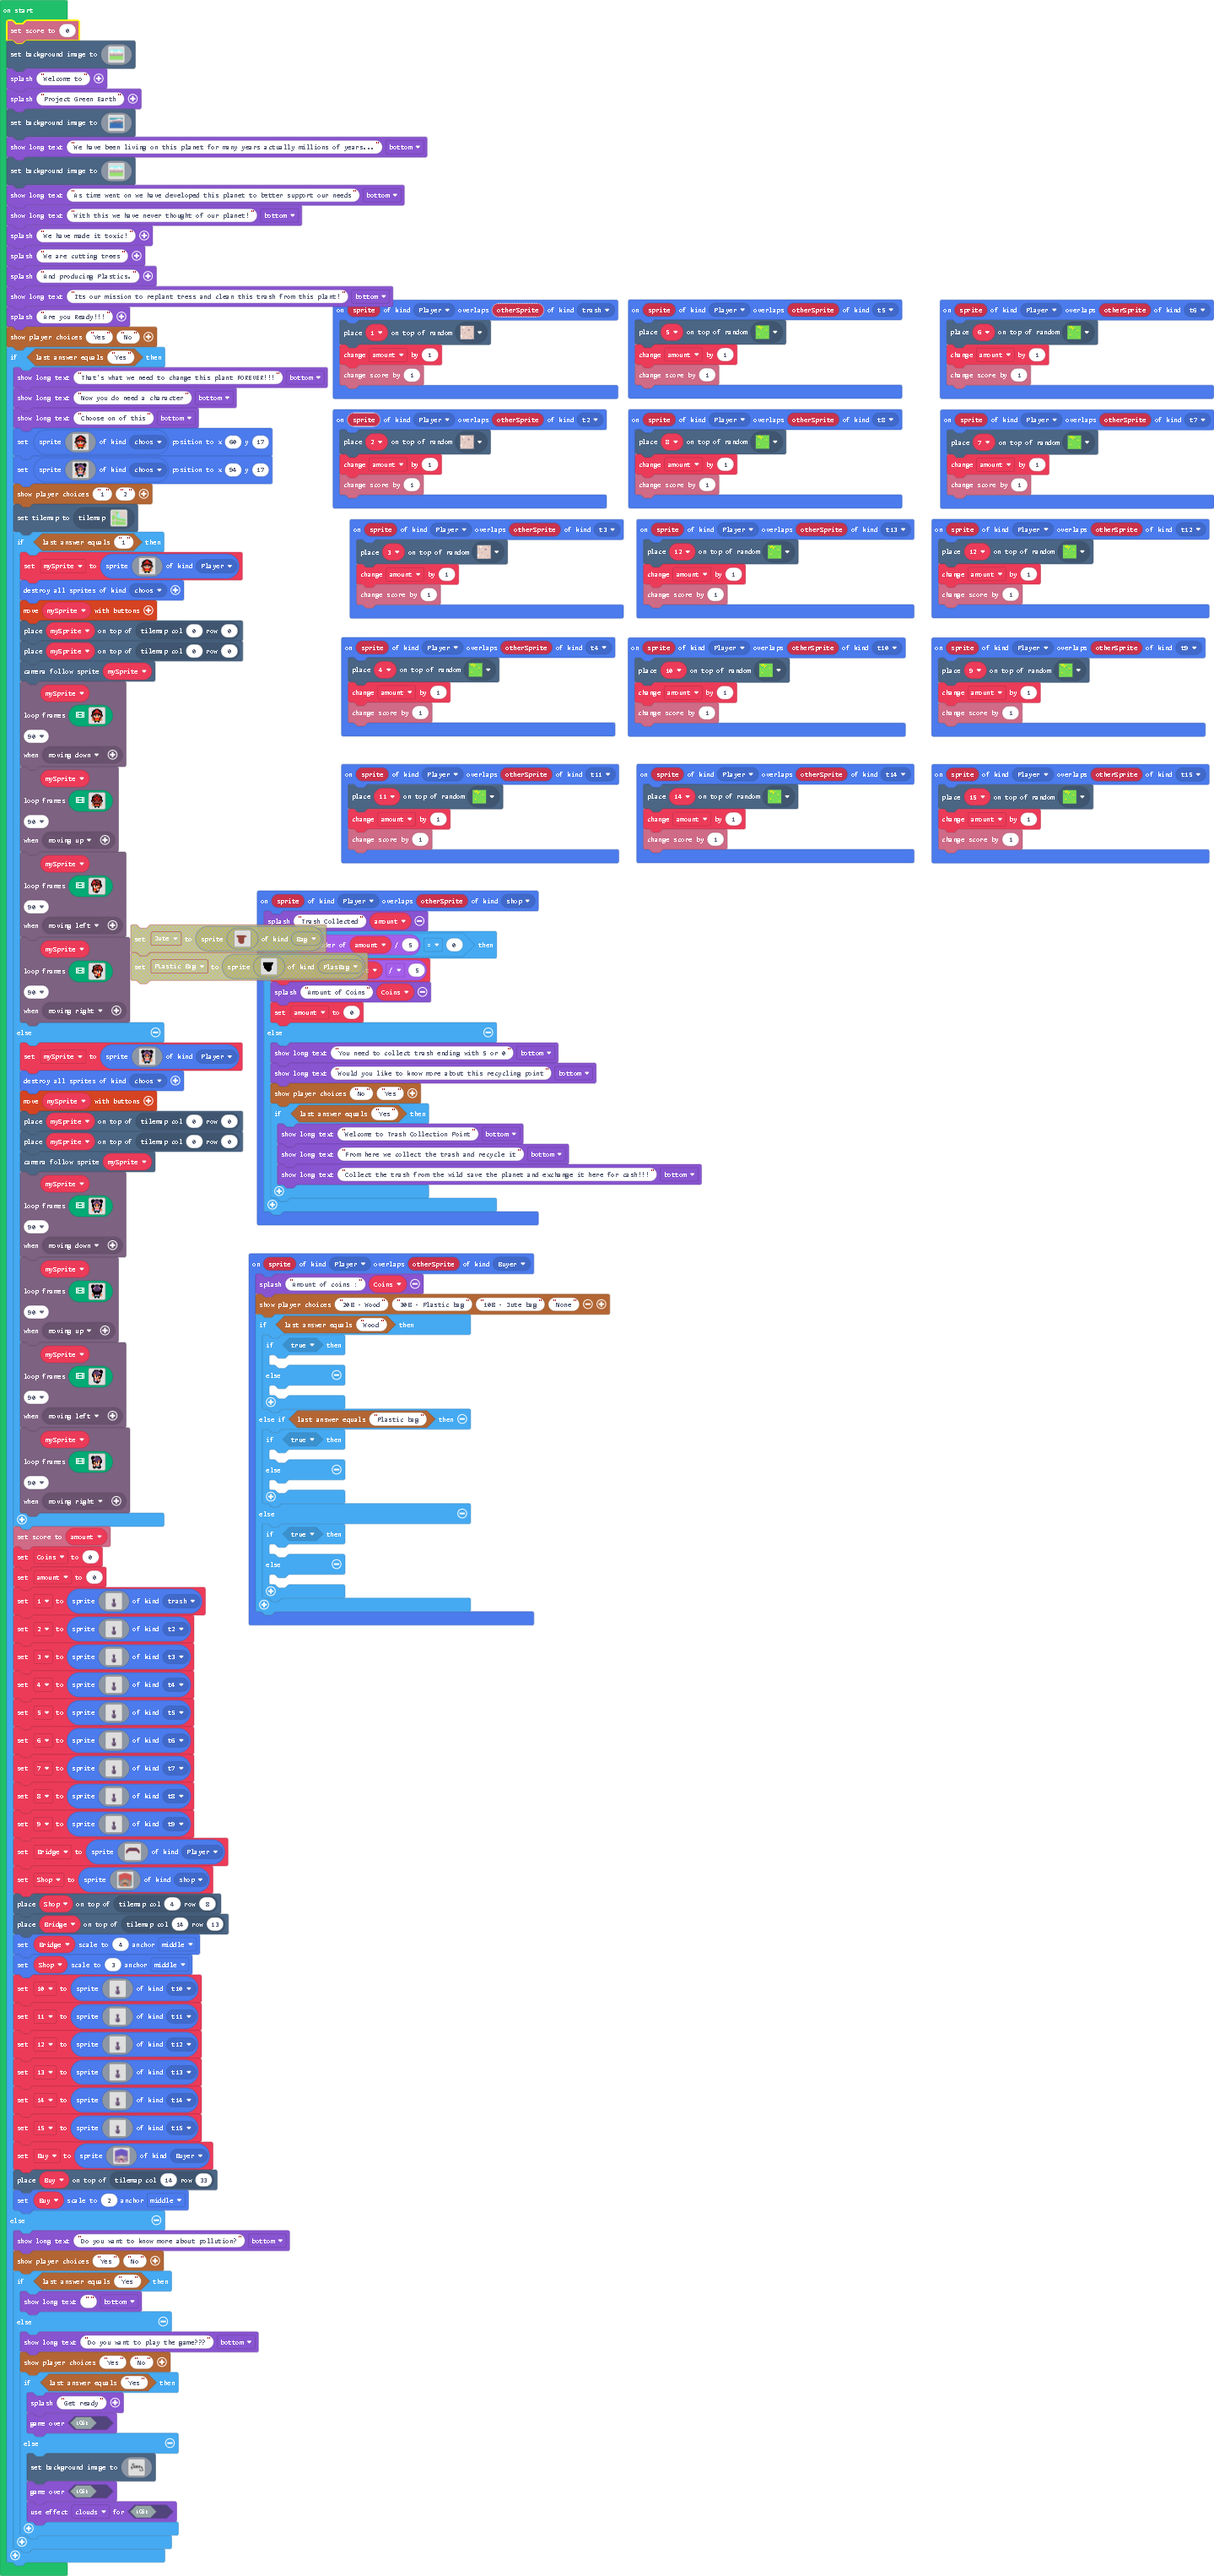
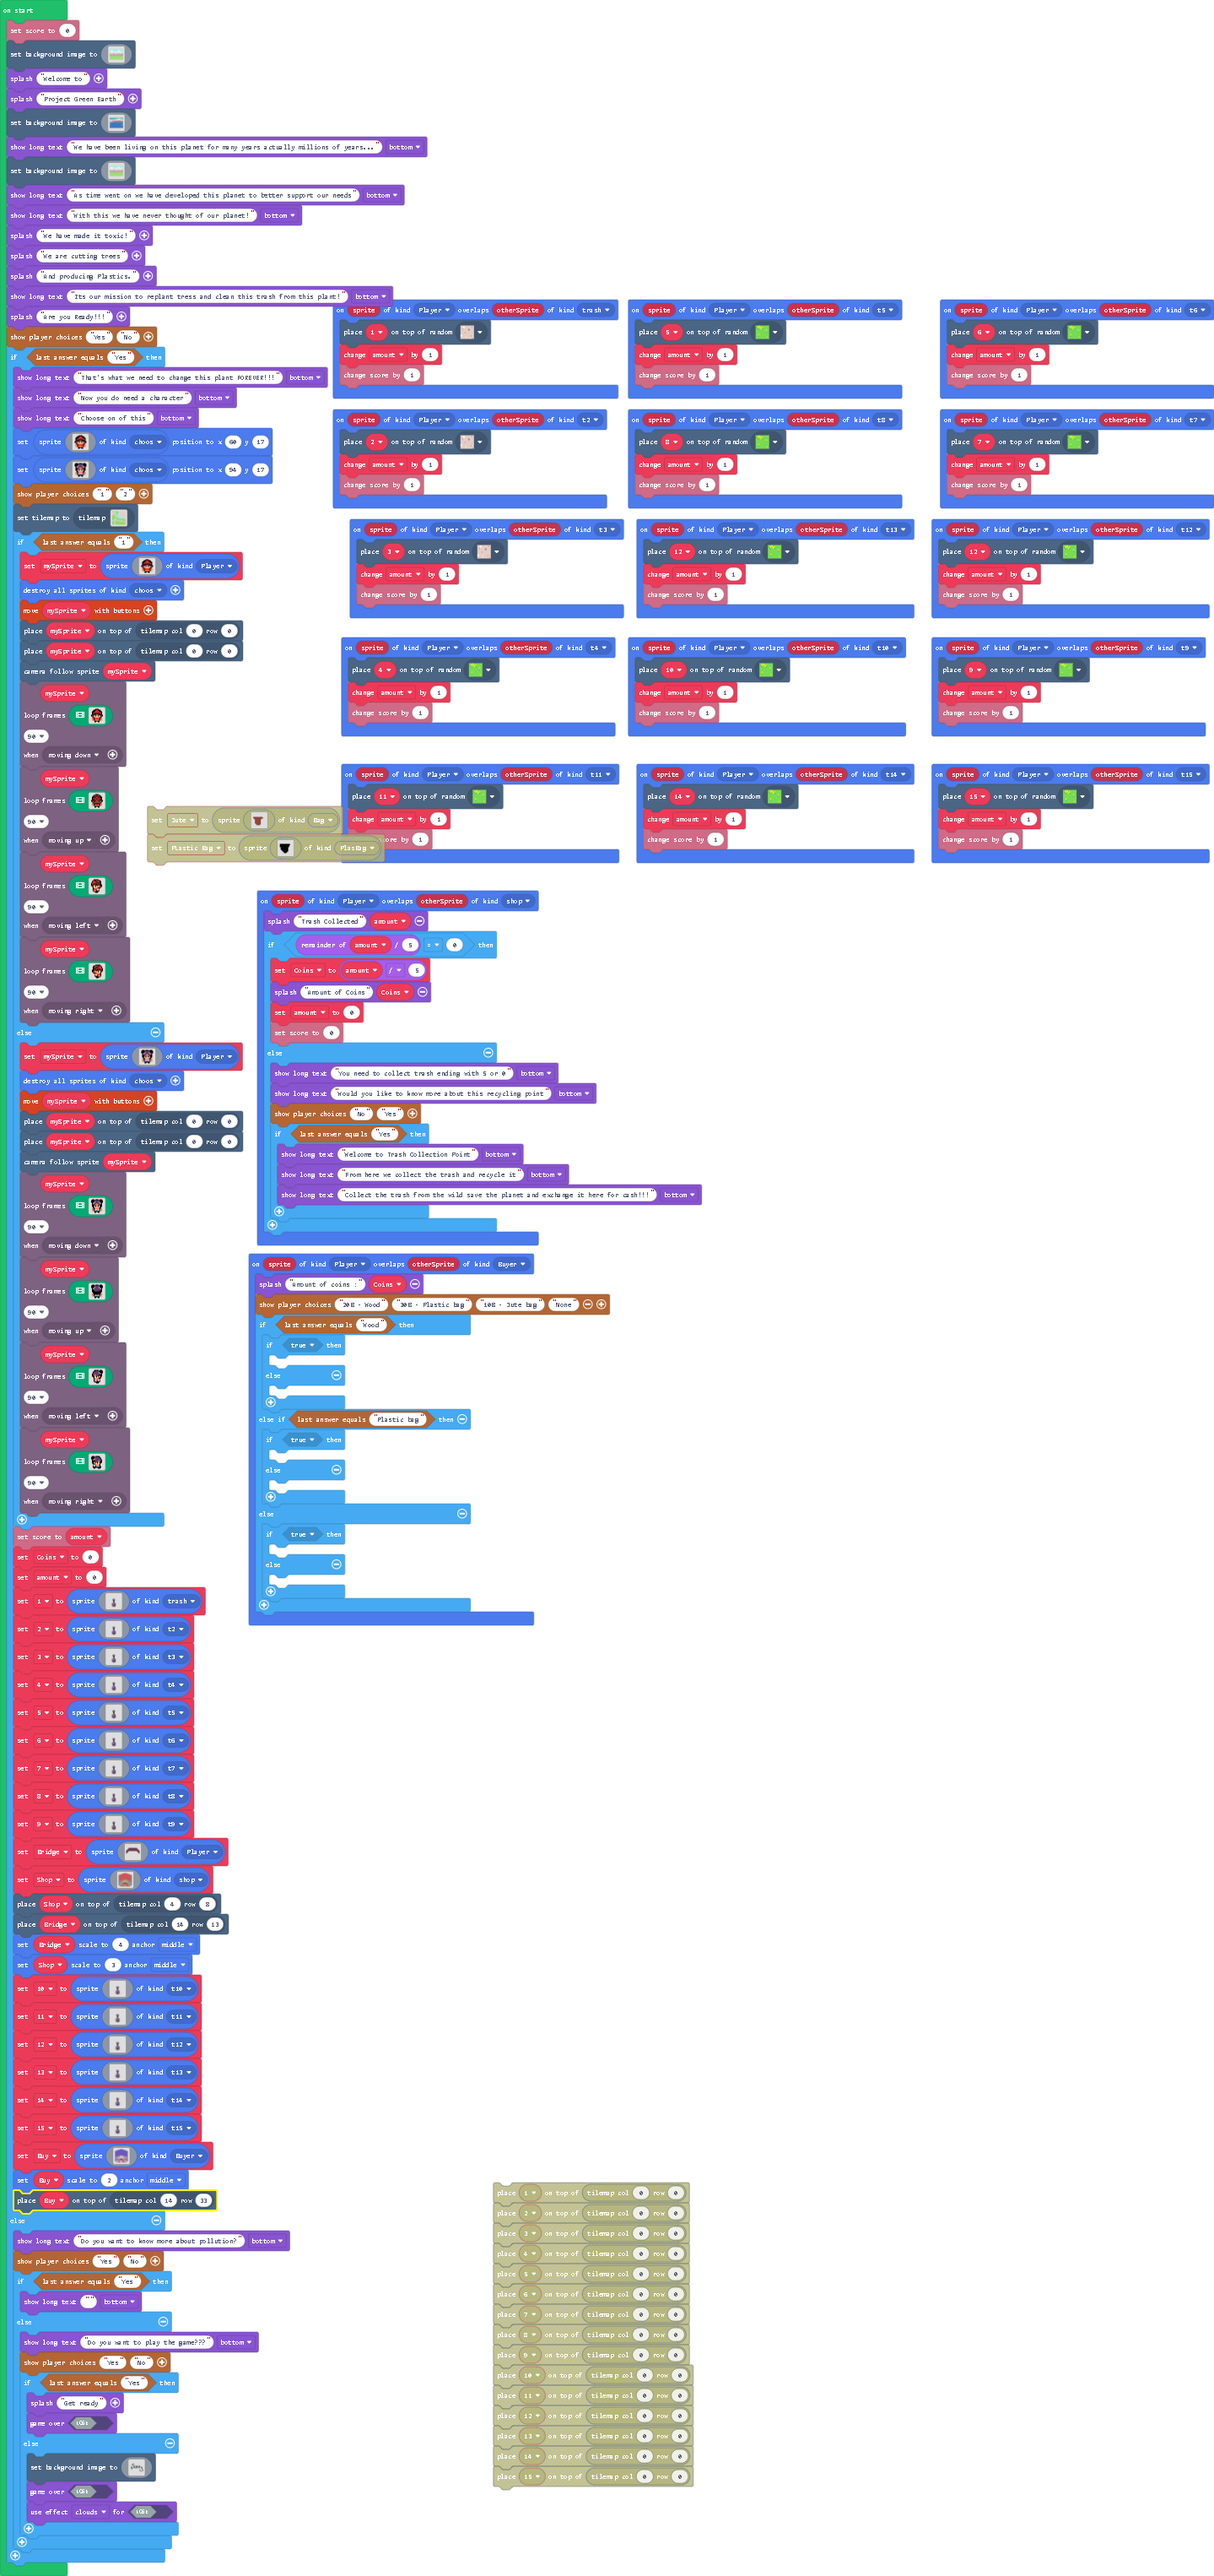
Update main.blocks, main.ts

Changed region(s): [[0.0917, 0.3114, 0.581, 0.4982], [0.3975, 0.8407, 0.581, 0.9653], [0.0, 0.8407, 0.1835, 0.8718]]

diff --git a/main.ts b/main.ts
@@ -37,6 +37,7 @@ sprites.onOverlap(SpriteKind.Player, SpriteKind.shop, function (sprite, otherSpr
         Coins = amount / 5
         game.splash("Amount of Coins", Coins)
         amount = 0
+        info.setScore(0)
     } else {
         game.showLongText("You need to collect trash ending with 5 or 0", DialogLayout.Bottom)
         game.showLongText("Would you like to know more about this recycling point", DialogLayout.Bottom)
@@ -1588,8 +1589,8 @@ if (story.checkLastAnswer("Yes")) {
         .....bdbbbdddcbbf3b33b33b33b33bebbcdddbbbdb.....
         ......bcccbbbcbbe3b33b33b33b33bebbcbbbcccb......
         `, SpriteKind.Buyer)
-    tiles.placeOnTile(Buy, tiles.getTileLocation(14, 33))
     Buy.setScale(2, ScaleAnchor.Middle)
+    tiles.placeOnTile(Buy, tiles.getTileLocation(14, 33))
 } else {
     game.showLongText("Do you want to know more about pollution?", DialogLayout.Bottom)
     story.showPlayerChoices("Yes", "No")
